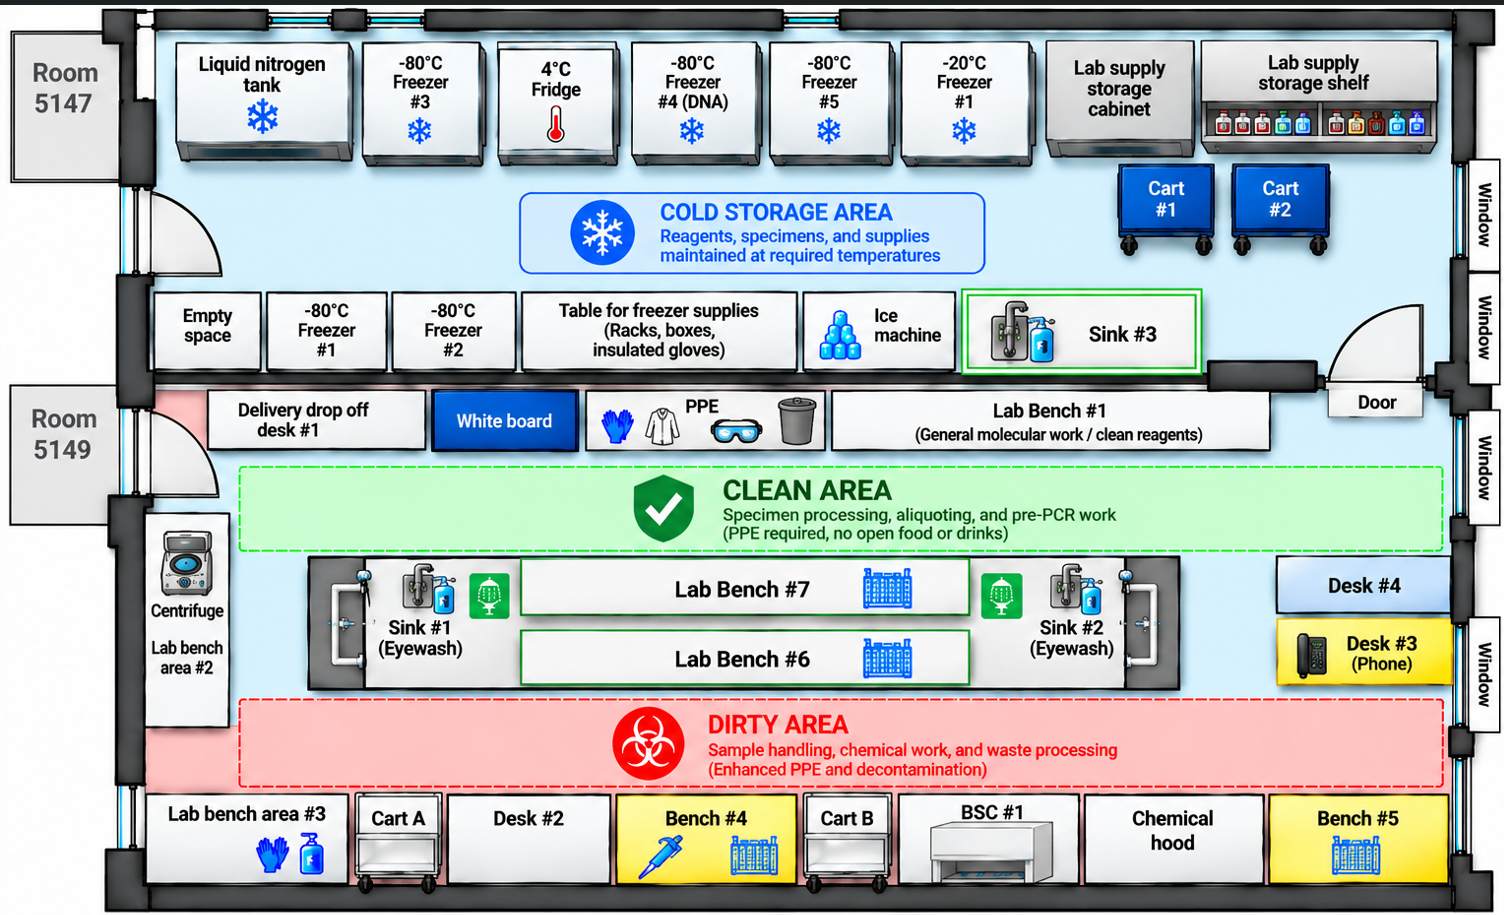
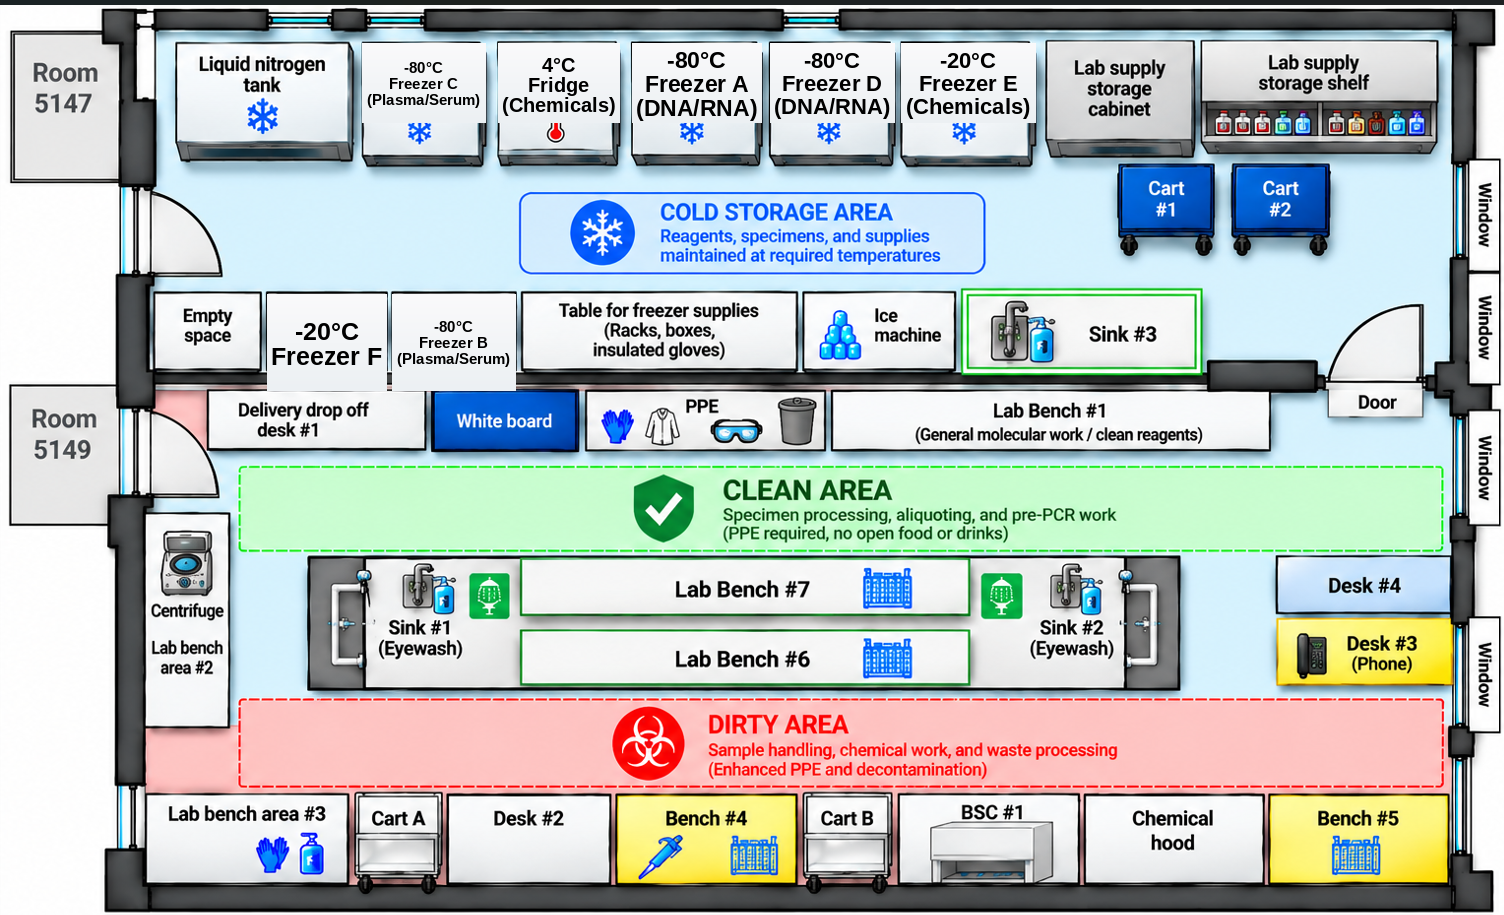
changed location name of the map

Changed region(s): [[0.25, 0.0306, 0.6875, 0.153], [0.1562, 0.306, 0.3438, 0.4284]]

diff --git a/inventory_core.py b/inventory_core.py
@@ -32,7 +32,7 @@ PRESET_PLACES = [
     # in % across and down). Cabinets, drawers and shelves are listed in their place's card instead of
     # getting their own pin, so the map stays readable; see parent_place().
     ("Liquid nitrogen tank", 17.0, 10.0),
-    ("-80 °C freezer C (Extracted DNA)", 28.0, 10.0),
+    ("-80 °C freezer C (plasma/serum)", 28.0, 10.0),
     ("4 °C fridge (chemicals)", 37.0, 10.0),
     ("-80 °C freezer A (DNA/RNA)", 46.0, 10.0),
     ("-80 °C freezer D (DNA/RNA)", 56.0, 10.0),
